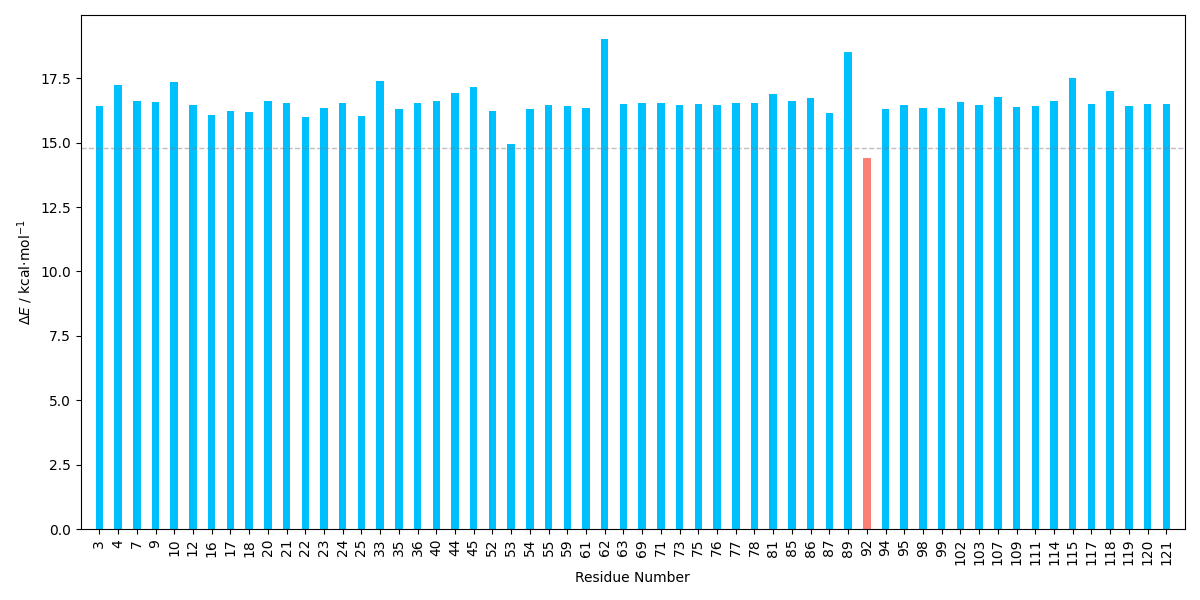
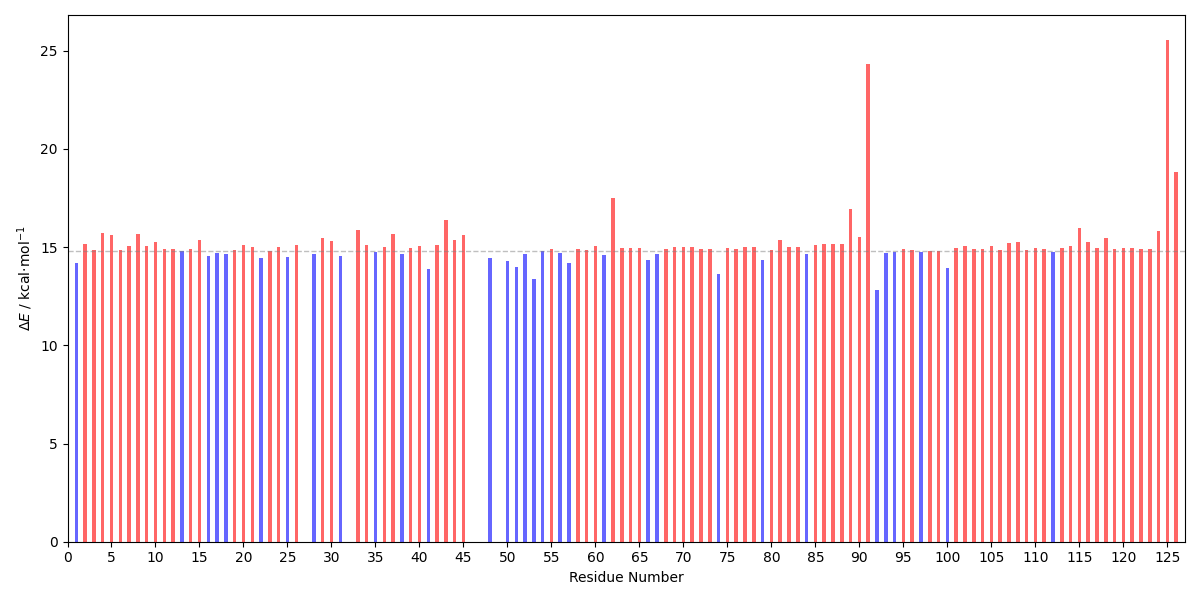
Add files via upload

diff --git a/E_diff_bar_plot.py b/E_diff_bar_plot.py
@@ -8,38 +8,36 @@ def read_data(file_path):
     with open(file_path, 'r') as file:
         for line in file:
             parts = line.split()
-            labels.append(parts[0])
-            values.append(float(parts[1]))
+            labels.append(int(parts[0]))  # Convert to integer
+            values.append(float(parts[1]))  # Convert to float
     return labels, values
 
 def plot_data(labels, values):
     plt.figure(figsize=(12, 6))
 
     # Original Energy Barrier in kcal.mol-1
-    wt = 14.8    
-
-    # Generate the positions of the bars
-    #x_positions = np.arange(len(labels)) #* 1.5  # Increase the spacing between bars
-    bar_width = 1.0  # Set the bar width to ensure bars occupy the whole plot area
+    wt = 14.8
 
     # Determine the color of each bar
-    bar_colors = ['salmon' if value < wt else 'deepskyblue' for value in values]
+    bar_colors = ['blue' if value < wt else 'red' for value in values]
 
     # Create the bar plot
-    plt.bar(labels, values, width=0.4, color=bar_colors)  # Apply bar colors
+    plt.bar(labels, values, width=0.4, color=bar_colors, alpha=0.6)  
 
-    # Add horizontal line at y=10
+    # Add horizontal reference line at y=wt
     plt.axhline(y=wt, color='grey', linestyle='--', linewidth=1, alpha=0.5)
 
-    # Set the x-ticks to the middle of each bar
-    plt.xticks(labels, labels, rotation=90)
-
-    # Set x-axis limit to the maximum value
-    plt.xlim(-1, len(labels))  # Adjusted by adding 1 for better visualization
+    # Convert labels to integers for correct tick spacing
+    max_label = max(labels)  # Ensure this is an integer
+    x_ticks = np.arange(0, max_label + 1, 5)  # Set x-ticks at intervals of 5
+    plt.xticks(x_ticks)  
+    plt.xlim(0, max_label+1)  
 
     plt.xlabel('Residue Number')
     plt.ylabel('Δ$E$ / kcal·mol$^{-1}$')
-    plt.tight_layout()  # Adjust layout to make room for label rotation
+    plt.tight_layout()  # Adjust layout
+
+    # Save and display the plot
     plt.savefig("bar_plot.png", format='png')
     plt.show()
 
